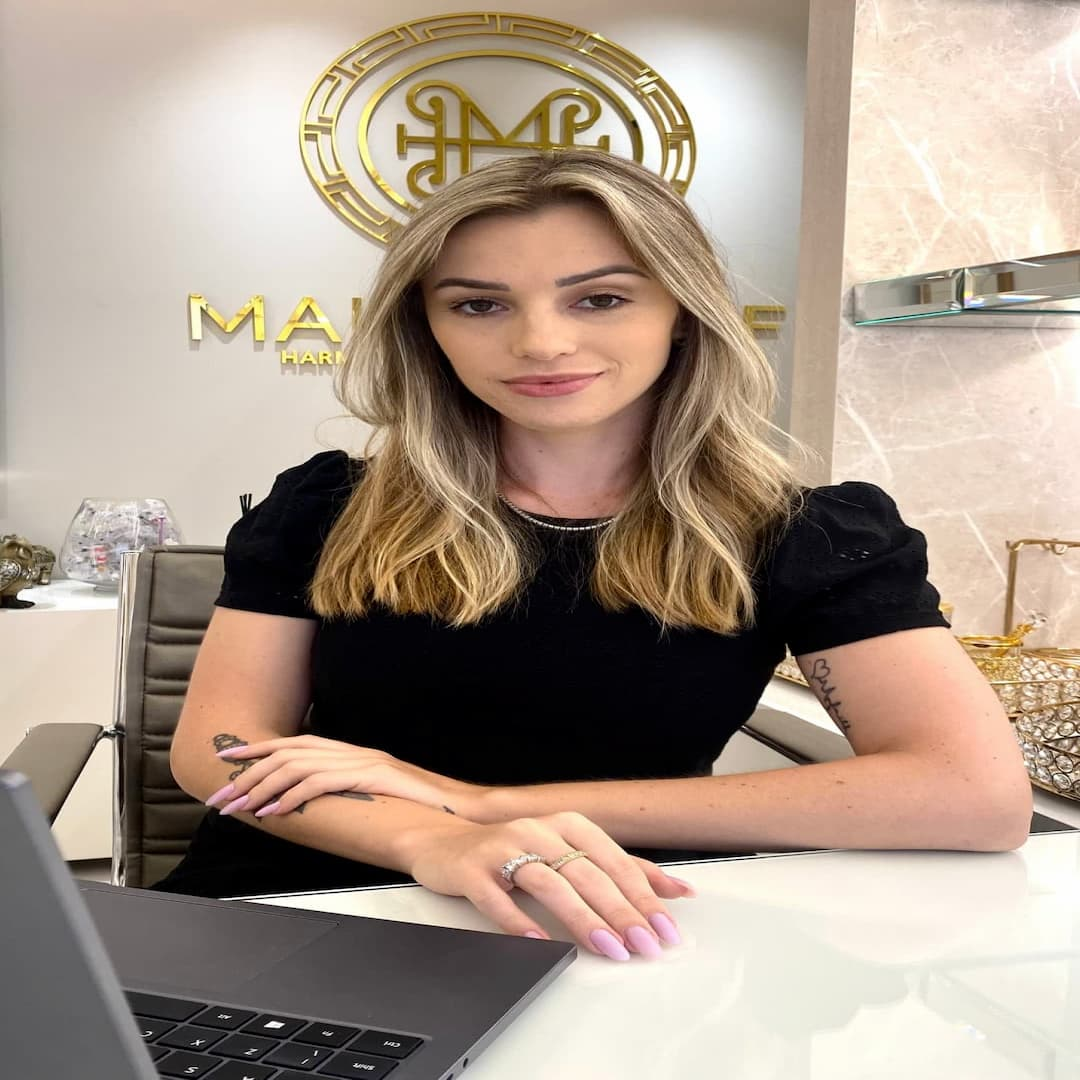
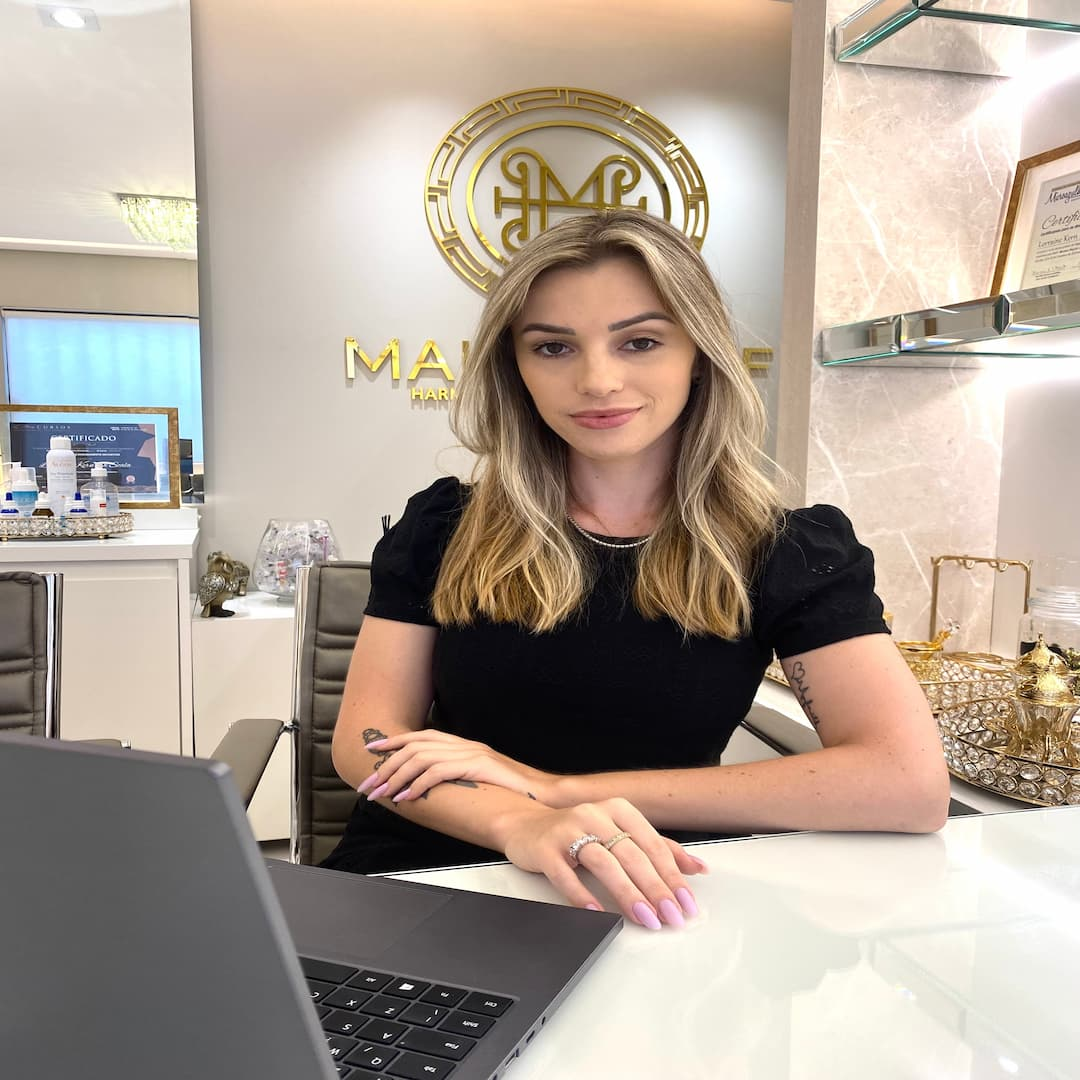
ajuste fotos

diff --git a/css/style.min.css b/css/style.min.css
@@ -1,1 +1,1 @@
-h1,h2,h3,h4,li,p,ul{padding:0;margin:0}img{display:block}body{margin:0;max-width:100%}body,html{overflow-x:hidden}ul{list-style:none}a{text-decoration:none}strong{color:#8a671e}.js .anima-left[data-anime=scroll]{opacity:0;transform:translate3d(-200px,0,0);transition:.9s}.js .anima-right[data-anime=scroll]{opacity:0;transform:translate3d(200px,0,0);transition:.9s}.js .anima-up[data-anime=scroll]{opacity:0;transform:translate3d(0,50px,0);transition:.9s}.js [data-anime=scroll].ativo{opacity:1;transform:translate3d(0,0,0)}.container{max-width:1200px;margin:0 auto;box-sizing:border-box}.botao{display:inline-block;padding:14px 28px;background:linear-gradient(62deg,#8a671e 0,#e8ae35 100%);border-radius:30px;box-shadow:0 1px 2px rgba(0,0,0,.1);color:var(--cor-0);text-transform:uppercase;font-family:'Times New Roman',Times,serif;font-size:1.2rem;max-width:max-content;font-weight:700;cursor:pointer;transition:.4s;transform:scale(1);animation:pulse 2s infinite;text-align:center}.cards{display:grid;grid-template-columns:minmax(320px,1fr) minmax(320px,1fr);gap:20px}.cards .item{background:#fdf5e6;box-shadow:2px 2px 4px rgba(0,0,0,.2);border-radius:8px;padding:16px;min-height:150px;max-width:100%;min-width:480px;display:grid;gap:12px;place-content:center;place-items:center}.cards .item p{text-align:center}.cards img{display:block;height:40px;width:40px}.estilo{color:#c79736}@-webkit-keyframes pulse{0%{-webkit-box-shadow:0 0 0 0 rgba(207,158,57,.4)}70%{-webkit-box-shadow:0 0 0 30px rgba(138,103,30,0)}100%{-webkit-box-shadow:0 0 0 0 rgba(138,103,30,0)}}@keyframes pulse{0%{-moz-box-shadow:0 0 0 0 rgba(138,103,30,.4);box-shadow:0 0 0 0 rgba(138,103,30,.4)}70%{-moz-box-shadow:0 0 0 30px rgba(138,103,30,0);box-shadow:0 0 0 30px rgba(138,103,30,0)}100%{-moz-box-shadow:0 0 0 0 rgba(138,103,30,0);box-shadow:0 0 0 0 rgba(138,103,30,0)}}@media (max-width:1000px){.cards{grid-template-columns:1fr}.botao{font-size:1.125rem}}@media (max-width:700px){.cards .item{width:100%;min-width:auto}.cards h3{text-align:center}}.font-1-xs{font:400 0.75rem/1.35 'Times new Roman',sans-serif}.font-2-xs{font:400 0.875rem/1.43 'Times new Roman',sans-serif}.font-1-s{font:400 1rem/1.5 'Times new Roman',sans-serif}.font-2-s{font:400 1.2rem/1.5 'Times new Roman',sans-serif}.font-1-m,.font-1-m-b{font:400 1.125rem/1.35 'Times new Roman',sans-serif}.font-1-m-b{font-weight:600}.font-2-m{font:400 2rem/1.35 'Times new Roman',serif}.font-1-l{font:400 1.5rem/1.5 'Times new Roman',sans-serif}.font-2-l,.font-2-l-b{font:400 1.5rem/1.5 'Times new Roman',sans-serif}.font-2-l-b{font-weight:500;letter-spacing:.015em;text-transform:uppercase}.font-1-xl{font:400 2.5rem/1.2 'Times new Roman',sans-serif}.font-1-xxl{font:700 4rem/1.2 'Times new Roman',sans-serif}@media (max-width:1200px){.font-1-xxl{font-size:4rem}.font-2-l,.font-2-l-b{font-size:1.125rem}}@media (max-width:850px){.font-2-m{font-size:1.5rem}.font-1-xxl{font-size:3rem}.font-1-xl,.font-2-xl{font-size:2rem}}@media (max-width:600px){.font-1-m{font-size:.875rem}.font-1-xxl{font-size:2rem}.font-1-xl,.font-2-xl{font-size:1.5rem}}:root{--cor-0:#fff;--cor-1:#fff;--cor-p1:#8a671e;--cor-p2:#8a671e;--cor-p3:#41421a;--cor-p4:#41421a}.cor-0{color:var(--cor-0)}.cor-p1{color:var(--cor-p1)}.cor-p2{color:var(--cor-p2)}.cor-p3{color:var(--cor-p3)}.cor-p4{color:var(--cor-p4)}.cor-p5{color:var(--cor-p5)}.logo{height:180px;width:220px}.header{display:flex;align-items:center;justify-content:center;padding-left:20px;padding-right:20px}.header-menu{display:flex;gap:12px}.header-menu a{padding:16px 0;position:relative;color:#4f3704}.header-menu a::after{content:'';display:block;height:2px;color:#4f3704;position:absolute;margin-top:4px;background:#4f3704;width:0%;transition:.3s}.header-menu a:hover:after{width:100%}#btn-mobile{display:none}@media (max-width:700px){.header-menu a::after{display:none}#nav button{display:flex;align-items:center}.header-menu{display:block;position:absolute;width:100%;top:170px;right:0;background:#fff;height:0;transition:.6s;z-index:1000;visibility:hidden;overflow-y:hidden}.header-menu.ativo{height:calc(100vh - 160px);visibility:visible;overflow-y:auto}.header-menu a{display:block;padding:1rem 0;margin:0 1rem;border-radius:0;background:0 0;border-bottom:2px solid #8a671e;color:#8a671e}.header-menu a:hover{background-color:rgba(0,0,0,.1)}#btn-mobile{display:flex;padding:.5rem 1rem;font-size:1.4rem;border:none;background:0 0;cursor:pointer;gap:.5rem}#hamburguer{display:block;color:#8a671e;border-top:2px solid;width:30px}#hamburguer::after,#hamburguer::before{content:'';width:30px;height:2px;display:block;margin-top:8px;background-color:currentColor;transition:.3s;position:relative}#nav.ativo #hamburguer{border-top-color:transparent}#nav.ativo #hamburguer::before{transform:rotate(135deg)}#nav.ativo #hamburguer::after{transform:rotate(-135deg);top:-10px}}@media (max-width:500px){.header-menu{justify-content:center}}.main{display:grid;grid-template-columns:1fr 1fr;padding-right:20px;padding-bottom:40px}.bg-contador{background-color:#00f}.main img{max-width:100%;height:100%;width:100%;display:block}.conteudo{padding-top:40px;padding-right:10px;padding-left:20px}.conteudo h1{margin-bottom:20px;text-align:left}.conteudo p{text-align:left;margin-bottom:40px}@media (max-width:960px){.main{padding-top:10px;padding-right:0;padding-bottom:0;grid-template-columns:1fr;text-align:center}.main img{object-fit:cover;max-height:800px}.conteudo{padding-top:0;padding-right:20px;padding-bottom:20px;display:flex;flex-direction:column;align-items:center}.conteudo h1,.conteudo p{text-align:center}}@media (max-width:450px){.main{padding-right:0}.main img{height:400px;object-fit:cover;object-position:center -80px}.main .botao{margin-top:40px}.conteudo p{margin-bottom:0}}.servico-bg{padding-top:40px;padding-bottom:40px;background:#f5f5ea}.cards img{width:48px;height:48px;border:2px solid #cf9e39;border-radius:50%}.contador ul{display:flex;justify-content:center;gap:20px}.cards-contador{margin-bottom:40px}.cards-contador li{background:#fdf5e6;box-shadow:2px 2px 4px rgba(0,0,0,.2);border-radius:8px;padding:12px 24px;min-height:150px;text-align:center;margin-bottom:8px;min-width:300px}.contador li{font-size:4.5rem}.titulo-contador{font-size:1.5rem}.contador ul li{min-height:200px;display:flex;flex-direction:column;align-items:center;justify-content:center;gap:6px}.contador .titulo-contador{text-align:center}.servico{padding-left:20px;padding-right:20px}.servico h2{margin-bottom:20px;text-align:center;font-weight:700}.texto-servico{text-align:center;margin-bottom:40px;max-width:75ch}.servico .servico-texto{display:flex;flex-direction:column}.servico .botao{align-self:center}@media (max-width:600px){.cards{margin-bottom:40px}.contador ul{flex-direction:column}}@media (max-width:340px){.cards-contador li{min-width:100px}}.apresentacao{display:flex;flex-direction:column}.apresentacao a{align-self:center}.sobre{padding-top:40px;padding-bottom:40px;padding-left:20px;padding-right:20px}.sobre h2{text-align:center;margin-bottom:20px}.texto-sobre{margin-bottom:20px;max-width:75ch}.sobre .case{display:flex;justify-content:space-evenly}.text-chamada{font-weight:700;margin-top:40px;text-align:center}.sobre a{text-align:center}.cards{margin-bottom:40px}.cards .item{position:relative;box-sizing:border-box}.card-beneficios{margin-top:10px}.card-beneficios li{font-size:1.125rem;color:var(--cor-p1);text-align:center;font-weight:700;font-family:'Times New Roman',Times,serif}.card-beneficios li+li{margin-top:6px}.card-beneficios li{gap:4px}.card-beneficios li::before{content:'';background-image:url('../../img/lista.svg');background-repeat:no-repeat;width:13px;height:9px;display:inline-block}.estilo-cards{font-family:'Times New Roman',Times,serif}.card-especial{background:linear-gradient(to right,#f90,#febe10);padding:.5rem 1rem;font-family:'Times New Roman',Times,serif;font-size:1rem;border-radius:4px;color:#fff}.cards h3{font-weight:700;font-family:'Times New Roman',Times,serif;font-size:1.125rem}.cards h3::after{content:'';display:block;width:100%;height:2px;margin-top:2px;background:var(--cor-p1)}.cards .item{min-height:280px;max-width:100%;padding:2rem}.preco{position:absolute;right:0;top:0;color:#fff;font-weight:700;font-family:Arial,Helvetica,sans-serif;font-size:.875rem;padding:.5rem;background:linear-gradient(62deg,#c73f30 0,#e54 100%);border-radius:0 0 0 4px}.melhor{position:absolute;top:-5%;left:0;color:#fff;font-weight:700;font-family:Arial,Helvetica,sans-serif;font-size:.875rem;padding:.5rem;background:linear-gradient(62deg,#ffed00,#ff8c00);border-radius:2px}.pacientes-bg{padding-top:40px;padding-bottom:40px;background:#f5f5ea}.pacientes{display:flex;flex-direction:column;padding-left:20px;padding-right:20px}.texto-pacientes{border-bottom:1px solid #e8ae35;padding-bottom:20px}.pacientes h2,p{text-align:center}.pacientes h2{margin-bottom:20px}.prova-social{margin-top:20px;margin-bottom:40px;display:flex;flex-wrap:wrap;justify-content:center;gap:20px}.prova-social li img{width:500px;height:500px;display:block;border:2px solid #e8ae35;box-shadow:2px 2px 2px rgba(0,0,0,.1)}.pacientes a{place-self:center}.label{margin-top:40px;background:linear-gradient(62deg,#8a671e 0,#e8ae35 100%);place-self:center;padding:6px 12px;box-shadow:2px 2px 4px rgba(0,0,0,.2);color:#fff;border-radius:4px;letter-spacing:.1rem;font-weight:700;font-size:1.125rem;font-family:Arial,Helvetica,sans-serif}.texto-social{margin-top:20px;font-size:1.5rem;margin-bottom:20px}@media (max-width:600px){.prova-social li img{width:100%;max-width:100%;height:auto}}footer{padding:2rem;color:#8a671e;display:flex;background-color:#f5f5ea;justify-content:center;align-items:center}.quem-grid{display:grid;grid-template-columns:1fr 1fr;padding-top:40px;padding-bottom:40px}.quem-sou{padding-top:40px}.quem-sou h1{text-align:center}.quem-texto p{text-align:left;padding-right:20px}.quem-img{max-width:100%;height:100%;width:100%;display:block}.quem-img img{width:100%;height:100%;max-width:100%}@media (max-width:960px){.quem-grid{grid-template-columns:1fr;gap:20px;padding-bottom:0}.quem-sou h1{padding-left:20px;padding-right:20px}.quem-texto p{text-align:center;padding-right:20px;padding-left:20px}.quem-img img{width:100%;height:100%;max-width:100%}}
+h1,h2,h3,h4,li,p,ul{padding:0;margin:0}img{display:block}body{margin:0;max-width:100%}body,html{overflow-x:hidden}ul{list-style:none}a{text-decoration:none}strong{color:#8a671e}.js .anima-left[data-anime=scroll]{opacity:0;transform:translate3d(-200px,0,0);transition:.9s}.js .anima-right[data-anime=scroll]{opacity:0;transform:translate3d(200px,0,0);transition:.9s}.js .anima-up[data-anime=scroll]{opacity:0;transform:translate3d(0,50px,0);transition:.9s}.js [data-anime=scroll].ativo{opacity:1;transform:translate3d(0,0,0)}.container{max-width:1200px;margin:0 auto;box-sizing:border-box}.botao{display:inline-block;padding:14px 28px;background:linear-gradient(62deg,#8a671e 0,#e8ae35 100%);border-radius:30px;box-shadow:0 1px 2px rgba(0,0,0,.1);color:var(--cor-0);text-transform:uppercase;font-family:'Times New Roman',Times,serif;font-size:1.2rem;max-width:max-content;font-weight:700;cursor:pointer;transition:.4s;transform:scale(1);animation:pulse 2s infinite;text-align:center}.cards{display:grid;grid-template-columns:minmax(320px,1fr) minmax(320px,1fr);gap:20px}.cards .item{background:#fdf5e6;box-shadow:2px 2px 4px rgba(0,0,0,.2);border-radius:8px;padding:16px;min-height:150px;max-width:100%;min-width:480px;display:grid;gap:12px;place-content:center;place-items:center}.cards .item p{text-align:center}.cards img{display:block;height:40px;width:40px}.estilo{color:#c79736}@-webkit-keyframes pulse{0%{-webkit-box-shadow:0 0 0 0 rgba(207,158,57,.4)}70%{-webkit-box-shadow:0 0 0 30px rgba(138,103,30,0)}100%{-webkit-box-shadow:0 0 0 0 rgba(138,103,30,0)}}@keyframes pulse{0%{-moz-box-shadow:0 0 0 0 rgba(138,103,30,.4);box-shadow:0 0 0 0 rgba(138,103,30,.4)}70%{-moz-box-shadow:0 0 0 30px rgba(138,103,30,0);box-shadow:0 0 0 30px rgba(138,103,30,0)}100%{-moz-box-shadow:0 0 0 0 rgba(138,103,30,0);box-shadow:0 0 0 0 rgba(138,103,30,0)}}@media (max-width:1000px){.cards{grid-template-columns:1fr}.botao{font-size:1.125rem}}@media (max-width:700px){.cards .item{width:100%;min-width:auto}.cards h3{text-align:center}}.font-1-xs{font:400 0.75rem/1.35 'Times new Roman',sans-serif}.font-2-xs{font:400 0.875rem/1.43 'Times new Roman',sans-serif}.font-1-s{font:400 1rem/1.5 'Times new Roman',sans-serif}.font-2-s{font:400 1.2rem/1.5 'Times new Roman',sans-serif}.font-1-m,.font-1-m-b{font:400 1.125rem/1.35 'Times new Roman',sans-serif}.font-1-m-b{font-weight:600}.font-2-m{font:400 2rem/1.35 'Times new Roman',serif}.font-1-l{font:400 1.5rem/1.5 'Times new Roman',sans-serif}.font-2-l,.font-2-l-b{font:400 1.5rem/1.5 'Times new Roman',sans-serif}.font-2-l-b{font-weight:500;letter-spacing:.015em;text-transform:uppercase}.font-1-xl{font:400 2.5rem/1.2 'Times new Roman',sans-serif}.font-1-xxl{font:700 4rem/1.2 'Times new Roman',sans-serif}@media (max-width:1200px){.font-1-xxl{font-size:4rem}.font-2-l,.font-2-l-b{font-size:1.125rem}}@media (max-width:850px){.font-2-m{font-size:1.5rem}.font-1-xxl{font-size:3rem}.font-1-xl,.font-2-xl{font-size:2rem}}@media (max-width:600px){.font-1-m{font-size:.875rem}.font-1-xxl{font-size:2rem}.font-1-xl,.font-2-xl{font-size:1.5rem}}:root{--cor-0:#fff;--cor-1:#fff;--cor-p1:#8a671e;--cor-p2:#8a671e;--cor-p3:#41421a;--cor-p4:#41421a}.cor-0{color:var(--cor-0)}.cor-p1{color:var(--cor-p1)}.cor-p2{color:var(--cor-p2)}.cor-p3{color:var(--cor-p3)}.cor-p4{color:var(--cor-p4)}.cor-p5{color:var(--cor-p5)}.logo{height:180px;width:220px}.header{display:flex;align-items:center;justify-content:center;padding-left:20px;padding-right:20px}.header-menu{display:flex;gap:12px}.header-menu a{padding:16px 0;position:relative;color:#4f3704}.header-menu a::after{content:'';display:block;height:2px;color:#4f3704;position:absolute;margin-top:4px;background:#4f3704;width:0%;transition:.3s}.header-menu a:hover:after{width:100%}#btn-mobile{display:none}@media (max-width:700px){.header-menu a::after{display:none}#nav button{display:flex;align-items:center}.header-menu{display:block;position:absolute;width:100%;top:170px;right:0;background:#fff;height:0;transition:.6s;z-index:1000;visibility:hidden;overflow-y:hidden}.header-menu.ativo{height:calc(100vh - 160px);visibility:visible;overflow-y:auto}.header-menu a{display:block;padding:1rem 0;margin:0 1rem;border-radius:0;background:0 0;border-bottom:2px solid #8a671e;color:#8a671e}.header-menu a:hover{background-color:rgba(0,0,0,.1)}#btn-mobile{display:flex;padding:.5rem 1rem;font-size:1.4rem;border:none;background:0 0;cursor:pointer;gap:.5rem}#hamburguer{display:block;color:#8a671e;border-top:2px solid;width:30px}#hamburguer::after,#hamburguer::before{content:'';width:30px;height:2px;display:block;margin-top:8px;background-color:currentColor;transition:.3s;position:relative}#nav.ativo #hamburguer{border-top-color:transparent}#nav.ativo #hamburguer::before{transform:rotate(135deg)}#nav.ativo #hamburguer::after{transform:rotate(-135deg);top:-10px}}@media (max-width:500px){.header-menu{justify-content:center}}.main{display:grid;grid-template-columns:1fr 1fr;padding-right:20px;padding-bottom:40px}.main img{max-width:100%;height:100%;width:100%;display:block;object-fit:cover}.conteudo{padding-top:40px;padding-right:10px;padding-left:20px}.conteudo h1{margin-bottom:20px;text-align:left}.conteudo p{text-align:left;margin-bottom:40px}@media (max-width:960px){.main{padding-top:10px;padding-right:0;padding-bottom:0;grid-template-columns:1fr;text-align:center}.main img{object-fit:cover;max-height:800px}.conteudo{padding-top:0;padding-right:20px;padding-bottom:20px;display:flex;flex-direction:column;align-items:center}.conteudo h1,.conteudo p{text-align:center}}@media (max-width:450px){.main{padding-right:0}.main img{max-height:450px}.main .botao{margin-top:40px}.conteudo p{margin-bottom:0}}.servico-bg{padding-top:40px;padding-bottom:40px;background:#f5f5ea}.cards img{width:48px;height:48px;border:2px solid #cf9e39;border-radius:50%}.contador ul{display:flex;justify-content:center;gap:20px}.cards-contador{margin-bottom:40px}.cards-contador li{background:#fdf5e6;box-shadow:2px 2px 4px rgba(0,0,0,.2);border-radius:8px;padding:12px 24px;min-height:150px;text-align:center;margin-bottom:8px;min-width:300px}.contador li{font-size:4.5rem}.titulo-contador{font-size:1.5rem}.contador ul li{min-height:200px;display:flex;flex-direction:column;align-items:center;justify-content:center;gap:6px}.contador .titulo-contador{text-align:center}.servico{padding-left:20px;padding-right:20px}.servico h2{margin-bottom:20px;text-align:center;font-weight:700}.texto-servico{text-align:center;margin-bottom:40px;max-width:75ch}.servico .servico-texto{display:flex;flex-direction:column}.servico .botao{align-self:center}@media (max-width:600px){.cards{margin-bottom:40px}.contador ul{flex-direction:column}}@media (max-width:340px){.cards-contador li{min-width:100px}}.apresentacao{display:flex;flex-direction:column}.apresentacao a{align-self:center}.sobre{padding-top:40px;padding-bottom:40px;padding-left:20px;padding-right:20px}.sobre h2{text-align:center;margin-bottom:20px}.texto-sobre{margin-bottom:20px;max-width:75ch}.sobre .case{display:flex;justify-content:space-evenly}.text-chamada{font-weight:700;margin-top:40px;text-align:center}.sobre a{text-align:center}.cards{margin-bottom:40px}.cards .item{position:relative;box-sizing:border-box}.card-beneficios{margin-top:10px}.card-beneficios li{font-size:1.125rem;color:var(--cor-p1);text-align:center;font-weight:700;font-family:'Times New Roman',Times,serif}.card-beneficios li+li{margin-top:6px}.card-beneficios li{gap:4px}.card-beneficios li::before{content:'';background-image:url('../../img/lista.svg');background-repeat:no-repeat;width:13px;height:9px;display:inline-block}.estilo-cards{font-family:'Times New Roman',Times,serif}.card-especial{background:linear-gradient(to right,#f90,#febe10);padding:.5rem 1rem;font-family:'Times New Roman',Times,serif;font-size:1rem;border-radius:4px;color:#fff}.cards h3{font-weight:700;font-family:'Times New Roman',Times,serif;font-size:1.125rem}.cards h3::after{content:'';display:block;width:100%;height:2px;margin-top:2px;background:var(--cor-p1)}.cards .item{min-height:280px;max-width:100%;padding:2rem}.preco{position:absolute;right:0;top:0;color:#fff;font-weight:700;font-family:Arial,Helvetica,sans-serif;font-size:.875rem;padding:.5rem;background:linear-gradient(62deg,#c73f30 0,#e54 100%);border-radius:0 0 0 4px}.melhor{position:absolute;top:-5%;left:0;color:#fff;font-weight:700;font-family:Arial,Helvetica,sans-serif;font-size:.875rem;padding:.5rem;background:linear-gradient(62deg,#ffed00,#ff8c00);border-radius:2px}.pacientes-bg{padding-top:40px;padding-bottom:40px;background:#f5f5ea}.pacientes{display:flex;flex-direction:column;padding-left:20px;padding-right:20px}.texto-pacientes{border-bottom:1px solid #e8ae35;padding-bottom:20px}.pacientes h2,p{text-align:center}.pacientes h2{margin-bottom:20px}.prova-social{margin-top:20px;margin-bottom:40px;display:flex;flex-wrap:wrap;justify-content:center;gap:20px}.prova-social li img{width:500px;height:500px;display:block;border:2px solid #e8ae35;box-shadow:2px 2px 2px rgba(0,0,0,.1)}.pacientes a{place-self:center}.label{margin-top:40px;background:linear-gradient(62deg,#8a671e 0,#e8ae35 100%);place-self:center;padding:6px 12px;box-shadow:2px 2px 4px rgba(0,0,0,.2);color:#fff;border-radius:4px;letter-spacing:.1rem;font-weight:700;font-size:1.125rem;font-family:Arial,Helvetica,sans-serif}.texto-social{margin-top:20px;font-size:1.5rem;margin-bottom:20px}@media (max-width:600px){.prova-social li img{width:100%;max-width:100%;height:auto}}footer{padding:2rem;color:#8a671e;display:flex;background-color:#f5f5ea;justify-content:center;align-items:center}.quem-grid{display:grid;grid-template-columns:1fr 1fr;padding-top:40px;padding-bottom:40px}.quem-sou{padding-top:40px}.quem-sou h1{text-align:center}.quem-texto p{text-align:left;padding-right:20px}.quem-img{max-width:100%;height:100%;width:100%;display:block}.quem-img img{width:100%;height:100%;max-width:100%}@media (max-width:960px){.quem-grid{grid-template-columns:1fr;gap:20px;padding-bottom:0}.quem-sou h1{padding-left:20px;padding-right:20px}.quem-texto p{text-align:center;padding-right:20px;padding-left:20px}.quem-img img{width:100%;height:100%;max-width:100%}}

diff --git a/css/home/main.css b/css/home/main.css
@@ -5,15 +5,12 @@
   padding-bottom: 40px;
 }
 
-.bg-contador {
-  background-color: blue;
-}
-
 .main img {
   max-width: 100%;
   height: 100%;
   width: 100%;
   display: block;
+  object-fit: cover;
 }
 
 .conteudo {
@@ -66,9 +63,7 @@
     padding-right: 0;
   }
   .main img {
-    height: 400px;
-    object-fit: cover;
-    object-position: center -80px;
+    max-height: 450px;
   }
 
   .main .botao {
